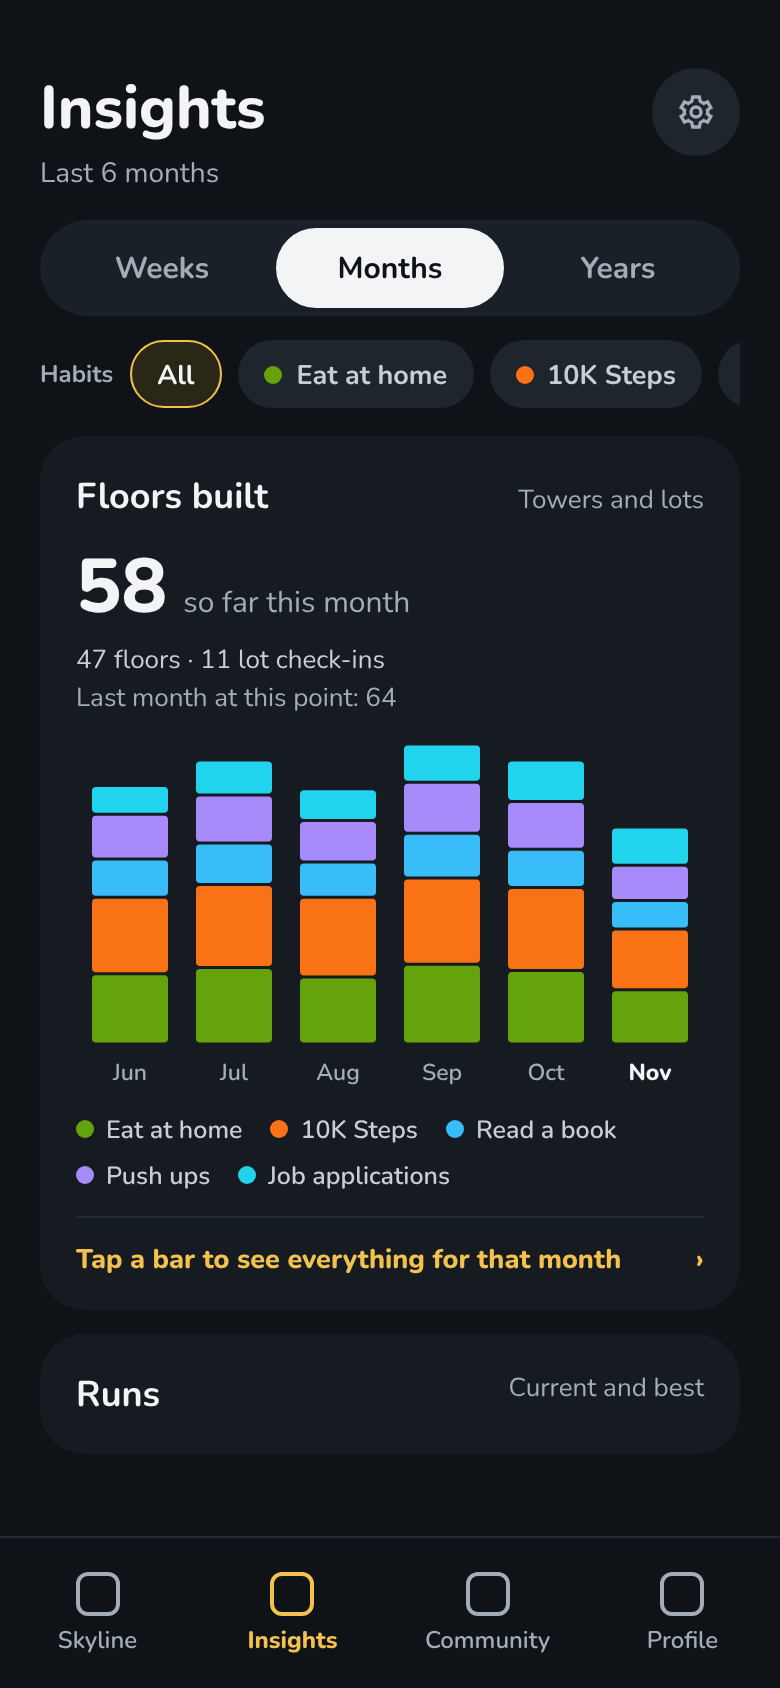
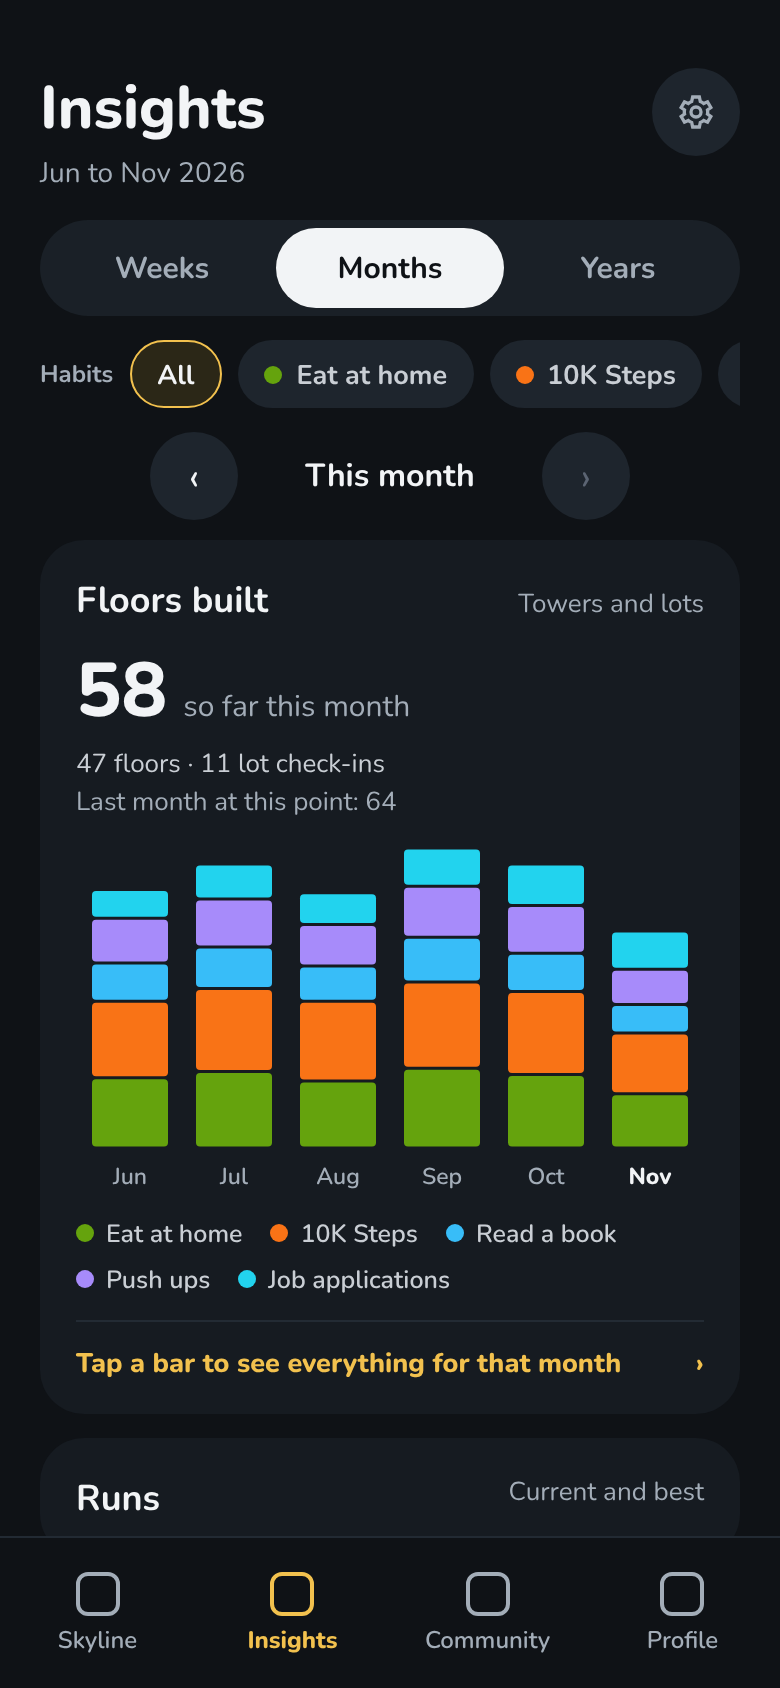
Design: Insights main boards keep the paging arrows and use a date-range subtitle
Claude-Session: https://claude.ai/code/session_01UvWD32uMFJU1E2B9jDYiLg

diff --git a/design/skyline/source/ins.js b/design/skyline/source/ins.js
@@ -33,13 +33,14 @@ const YL=['2025','2026'];
 
 if(S==='main'){
   const tab=+(q.get('v')||0);
-  const cfg=[{lab:'Last 8 weeks',cols:WEEKS,l:WL,head:['18','so far this week','14 floors · 4 lot check-ins','Last week at this point: 20'],bw:28,gap:10},
-             {lab:'Last 6 months',cols:MONTHS,l:ML,head:['58','so far this month','47 floors · 11 lot check-ins','Last month at this point: 64'],bw:38,gap:14},
-             {lab:'2025 and 2026',cols:YEARS,l:YL,head:['1,284','so far this year','1,052 floors · 232 lot check-ins','Last year to this date: 996'],bw:80,gap:60}][tab];
+  const cfg=[{lab:'Sep 21 to Nov 15',nav:'This week',cols:WEEKS,l:WL,head:['18','so far this week','14 floors · 4 lot check-ins','Last week at this point: 20'],bw:28,gap:10},
+             {lab:'Jun to Nov 2026',nav:'This month',cols:MONTHS,l:ML,head:['58','so far this month','47 floors · 11 lot check-ins','Last month at this point: 64'],bw:38,gap:14},
+             {lab:'2025 to 2026',nav:'This year',cols:YEARS,l:YL,head:['1,284','so far this year','1,052 floors · 232 lot check-ins','Last year to this date: 996'],bw:80,gap:60}][tab];
   el.innerHTML=`${gearBtn}
   <div style="padding:34px 20px 0"><h1 style="font-size:30px">Insights</h1><div style="color:#A3ADB8;font-size:14px;margin:2px 0 14px">${cfg.lab}</div>
   ${seg(['Weeks','Months','Years'],tab)}<div style="margin-top:12px">${chips()}</div>
-  <div style="margin-top:14px;background:#161B21;border-radius:22px;padding:18px 18px 16px">
+  <div style="margin-top:12px;display:flex;align-items:center;justify-content:center;gap:28px"><div style="width:44px;height:44px;border-radius:22px;background:#1E252D;display:flex;align-items:center;justify-content:center;font-size:20px">‹</div><b style="font-size:16px;min-width:96px;text-align:center">${cfg.nav}</b><div style="width:44px;height:44px;border-radius:22px;background:#1E252D;display:flex;align-items:center;justify-content:center;font-size:20px;color:#5B6472">›</div></div>
+  <div style="margin-top:10px;background:#161B21;border-radius:22px;padding:18px 18px 16px">
     <div style="display:flex;justify-content:space-between;align-items:baseline"><b style="font-size:18px">Floors built</b><span style="font-size:13px;color:#A3ADB8">Towers and lots</span></div>
     <div style="margin-top:8px;display:flex;align-items:baseline;gap:8px"><span style="font-size:38px;font-weight:800">${cfg.head[0]}</span><span style="color:#A3ADB8;font-size:15px">${cfg.head[1]}</span></div>
     <div style="color:#C9CED4;font-size:13px;margin-top:2px">${cfg.head[2]}</div><div style="color:#A3ADB8;font-size:13px;margin-top:1px">${cfg.head[3]}</div>

diff --git a/design/skyline/README.md b/design/skyline/README.md
@@ -36,7 +36,7 @@ This is the only folder of Skyline mockups. The old `concept _screens/` folder w
 | 25 | `25-sheet-tall-tower-B-pinned.png` | Tower details, tall tower, option B | 3 | **NOT CHOSEN (2026-11-14):** the owner picked option A (board 24). Kept for reference only. One layout for every tower: content scrolls, the Top out card and 6 buttons are pinned at the bottom. |
 | 26 | `26-inside-view-build-open-day.png` | Inside view, build an open day | 3 | **APPROVED by the owner 2026-11-14.** Any past open day since the habit started, but personal habits only; shared habits keep the 7-day limit. The sheet's quick "Add another day" list stays. Selecting an open day shows "Hold to build" in the day tooltip, so any past day can be filled from here. |
 | 27 | `27-lot-sheet-day-callout.png` | Lot sheet (monthly), per-day chart callout | 2b | **APPROVED by the owner 2026-11-14.** Tapping a day in the grid or the chart shows the callout; counts also stay inside the grid squares. One callout above the selected day instead of a label on every bar. |
-| 28–30 | `28-insights-weeks.png`, `29-insights-months.png`, `30-insights-years.png` | Insights main page, Weeks / Months / Years tabs | 5 | **PROPOSAL, awaiting owner approval (2026-11-14).** Replaces the Floors built card of board 06. Tabs read Weeks / Months / Years. The subtitle says what the bars cover ("Last 8 weeks", "Last 6 months", "2025 and 2026"). Floors built counts weekly and monthly habits too (their check-ins), tagged "Towers and lots", and the line under the headline splits floors and lot check-ins. Tapping a bar opens the details page. The period arrows move to the details page. Runs and Shield use are unchanged. |
+| 28–30 | `28-insights-weeks.png`, `29-insights-months.png`, `30-insights-years.png` | Insights main page, Weeks / Months / Years tabs | 5 | **PROPOSAL, awaiting owner approval (2026-11-14).** Replaces the Floors built card of board 06. Tabs read Weeks / Months / Years. The subtitle is the date range the bars cover ("Sep 21 to Nov 15"), and the "This week / This month / This year" arrows page back through earlier windows, so all history is reachable. Runs is all-time and Shield use covers the last 12 weeks; neither is limited by the chart window. Floors built counts weekly and monthly habits too (their check-ins), tagged "Towers and lots", and the line under the headline splits floors and lot check-ins. Tapping a bar opens the details page. Runs and Shield use are unchanged. |
 | 31–33 | `31-insights-week-details.png`, `32-insights-month-details.png`, `33-insights-year-details.png` | Period details (week, month, year) | 5 | **PROPOSAL, awaiting owner approval (2026-11-14).** One page for everything about a period: two summary tiles, a day-by-day (month-by-month for years) chart, then a card per habit with its own strip (7 days, a 7-column month grid, or 12 months), floors against the same point last period, current and best run, and Shield Days used. Weekly/monthly habits show a target bar. Previous/next arrows step between periods. Uses the glass Shield Day and see-through open floor. |
 
 `superseded/` keeps the old versions of 01, 03, 07 and 22 for history. Don't build from them.
